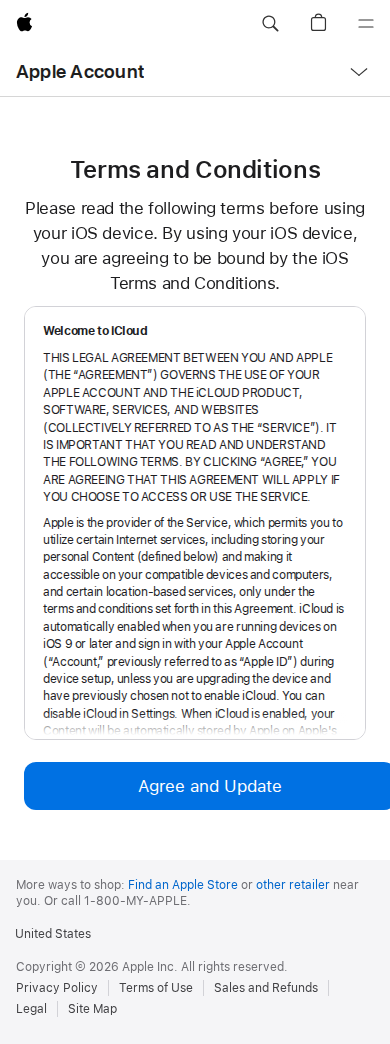
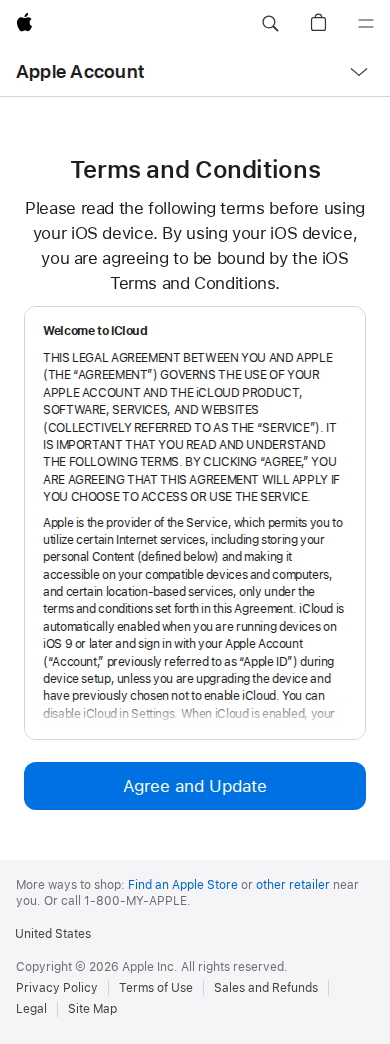
fix(terms): clean mobile box layout
- CTA uses border-box on small screens, so it aligns with the legal box
  instead of being clipped 6px at the right edge
- Taller bottom fade and a shorter 320px minimum match the page height
- Fade disappears at the end of the scroll so the last lines stay readable
- overscroll-contain keeps the page scroll out of the legal box

Changed region(s): [[0.1231, 0.6743, 0.8615, 0.705], [0.3077, 0.7356, 0.7077, 0.7663], [0.9231, 0.705, 1.0, 0.7969]]

diff --git a/src/pages/Terms.jsx b/src/pages/Terms.jsx
@@ -4,6 +4,7 @@ import { termsHtml } from "../data/termsHtml";
 
 export default function Terms({ onAgree }) {
   const [busy, setBusy] = useState(false);
+  const [atEnd, setAtEnd] = useState(false);
   const busyRef = useRef(false);
 
   function agree() {
@@ -15,7 +16,7 @@ export default function Terms({ onAgree }) {
 
   return (
     <Landing hideRingsOnMobile>
-      <div className="mx-auto mb-[50px] flex h-[calc(100dvh-232px)] min-h-[420px] w-full max-w-[460px] flex-col px-6 text-center max-[734px]:h-[calc(100dvh-190px)]">
+      <div className="mx-auto mb-[50px] flex h-[calc(100dvh-232px)] min-h-[400px] w-full max-w-[460px] flex-col px-6 text-center max-[734px]:h-[calc(100dvh-190px)]">
         <h1 className="text-[24px] font-semibold leading-[28px] tracking-[-0.374px] text-[#1d1d1f] [transform:translateZ(0)]">
           Terms and Conditions
         </h1>
@@ -24,16 +25,26 @@ export default function Terms({ onAgree }) {
           are agreeing to be bound by the iOS Terms and Conditions.
         </p>
 
-        <div className="relative mb-[6px] mt-[9.6px] min-h-0 flex-1 overflow-y-auto rounded-[12px] border border-[#d2d2d7] bg-white px-[18px] py-4 text-left text-[12px] leading-[1.45] tracking-[-0.374px] text-[#1d1d1f] [direction:ltr]">
+        <div
+          onScroll={(event) => {
+            const el = event.currentTarget;
+            setAtEnd(el.scrollHeight - el.scrollTop - el.clientHeight < 4);
+          }}
+          className="relative mb-[6px] mt-[9.6px] min-h-0 flex-1 overflow-y-auto overscroll-contain rounded-[12px] border border-[#d2d2d7] bg-white px-[18px] py-4 text-left text-[12px] leading-[1.45] tracking-[-0.374px] text-[#1d1d1f] [direction:ltr]"
+        >
           <div dangerouslySetInnerHTML={{ __html: termsHtml }} />
-          <div className="pointer-events-none sticky bottom-[-16px] -mt-[26px] h-[26px] bg-[linear-gradient(rgba(255,255,255,0),#fff_85%)]" />
+          <div
+            className={`pointer-events-none sticky bottom-[-16px] -mt-[26px] h-[26px] bg-[linear-gradient(rgba(255,255,255,0),#fff_85%)] transition-opacity duration-200 ease-out max-[734px]:-mt-[42px] max-[734px]:h-[42px] max-[734px]:bg-[linear-gradient(rgba(255,255,255,0),#fff_72%)] ${
+              atEnd ? "opacity-0" : "opacity-100"
+            }`}
+          />
         </div>
 
         <button
           type="button"
           onClick={agree}
           disabled={busy}
-          className="mt-4 box-content h-12 w-full flex-none rounded-[12px] bg-[#0071e3] px-[15px] text-[17px] font-normal leading-[48px] tracking-normal text-white transition-[background-color,transform,opacity] duration-150 ease-out hover:bg-[#0077ed] active:scale-[0.995] disabled:opacity-90"
+          className="mt-4 box-content h-12 w-full flex-none rounded-[12px] bg-[#0071e3] px-[15px] text-[17px] font-normal leading-[48px] tracking-normal text-white transition-[background-color,transform,opacity] duration-150 ease-out hover:bg-[#0077ed] active:scale-[0.995] disabled:opacity-90 max-[734px]:box-border"
         >
           {busy ? (
             <span

diff --git a/compare/viewer.html b/compare/viewer.html
@@ -116,7 +116,7 @@
 <article class="card" data-page="loading" data-vp="390">
   <header>
     <div><h2>Loading</h2><span class="vp">Phone · 390×844</span></div>
-    <div class="metrics"><span>changed <b>0.0%</b></span><span>mean diff <b>0.002%</b></span></div>
+    <div class="metrics"><span>changed <b>0.0%</b></span><span>mean diff <b>0.008%</b></span></div>
   </header>
   <div class="stage">
     <div class="frame" style="--pos:50%; width:min(100%, 390px)">
@@ -192,7 +192,7 @@
 <article class="card" data-page="terms" data-vp="390">
   <header>
     <div><h2>Terms and Conditions</h2><span class="vp">Phone · 390×844</span></div>
-    <div class="metrics"><span>changed <b>0.167%</b></span><span>mean diff <b>0.0157%</b></span></div>
+    <div class="metrics"><span>changed <b>1.282%</b></span><span>mean diff <b>0.405%</b></span></div>
   </header>
   <div class="stage">
     <div class="frame" style="--pos:50%; width:min(100%, 390px)">

diff --git a/README.md b/README.md
@@ -235,13 +235,21 @@ Latest run (`compare/REPORT.md`, `compare/summary.json`):
 | login | 0.007% | 0.021% |
 | loading | 0.000% | 0.000% |
 | verify | 0.000% | 0.007% |
-| terms | 0.040% | 0.167% |
+| terms | 0.040% | 1.282%* |
 | done | 0.000% | 0.006% |
+
+\* The mobile Terms page is a deliberate improvement, not drift: the reference
+draws its CTA 30 px wider than the legal box, so at phone widths the right
+corner is clipped by 6 px. The replica aligns the CTA to the legal box on
+`max-width: 734px`, gives the scroll fade more height, and hides the fade once
+the reader reaches the end so the last lines stay readable. Desktop Terms is
+unchanged (0.040%).
 
 Chrome check: **0 mismatches** across 40 page/width pairs (global header,
 local nav, footer, main and document height) at 320–1440. Width check at
-600/768/834: every diff ≤ 0.125%. Responsive check: **0 horizontal overflow
-cases** across 75 page/width pairs at 320–1920.
+768/834: every diff ≤ 0.075%; at 600 the only larger diff is the Terms CTA
+(0.978%, same mobile improvement), everything else ≤ 0.125%. Responsive check:
+**0 horizontal overflow cases** across 75 page/width pairs at 320–1920.
 
 "changed" counts pixels whose channel difference exceeds 8/255. The residue is
 sub-pixel text antialiasing (the reference renders some text through composited
@@ -265,6 +273,10 @@ own iframe jitter.
   `flex-1`, so a tall window pins the footer to the bottom edge instead of
   leaving white space under it. At 900 px height the chrome boxes are identical
   to the reference (0 mismatches).
+- **Mobile Terms:** the CTA matches the legal box width (no clipped corner),
+  the inner scroll uses `overscroll-contain`, and the bottom fade fades out at
+  the end so the last lines are never permanently covered. On wider screens the
+  reference geometry is kept.
 
 ## Layout
 

diff --git a/compare/REPORT.md b/compare/REPORT.md
@@ -17,9 +17,9 @@ number that tracks how visible the difference is.
 | loading | 1440 | 1440×922 / 1440×922 | 0 | 0.0% | 0.0001% |
 | login | 390 | 390×1016 / 390×1016 | 84 | 0.021% | 0.0022% |
 | verify | 390 | 390×1041 / 390×1041 | 30 | 0.007% | 0.0011% |
-| terms | 390 | 390×1044 / 390×1044 | 680 | 0.167% | 0.0157% |
+| terms | 390 | 390×1044 / 390×1044 | 5221 | 1.282% | 0.405% |
 | done | 390 | 390×1096 / 390×1096 | 24 | 0.006% | 0.0005% |
-| loading | 390 | 390×1016 / 390×1016 | 0 | 0.0% | 0.002% |
+| loading | 390 | 390×1016 / 390×1016 | 0 | 0.0% | 0.008% |
 
 ## Notes
 
